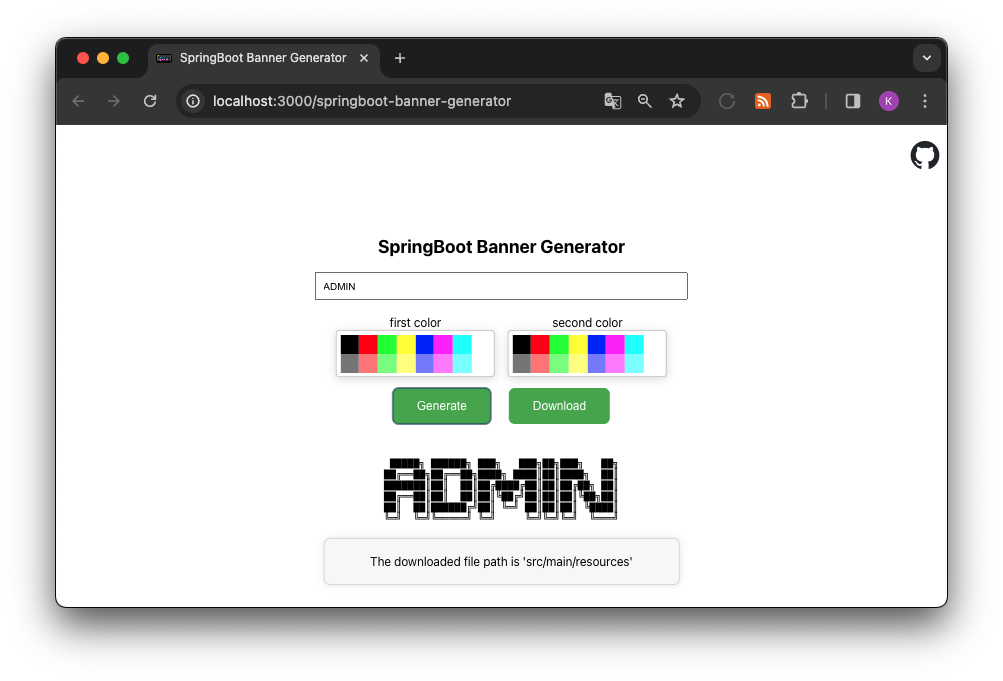
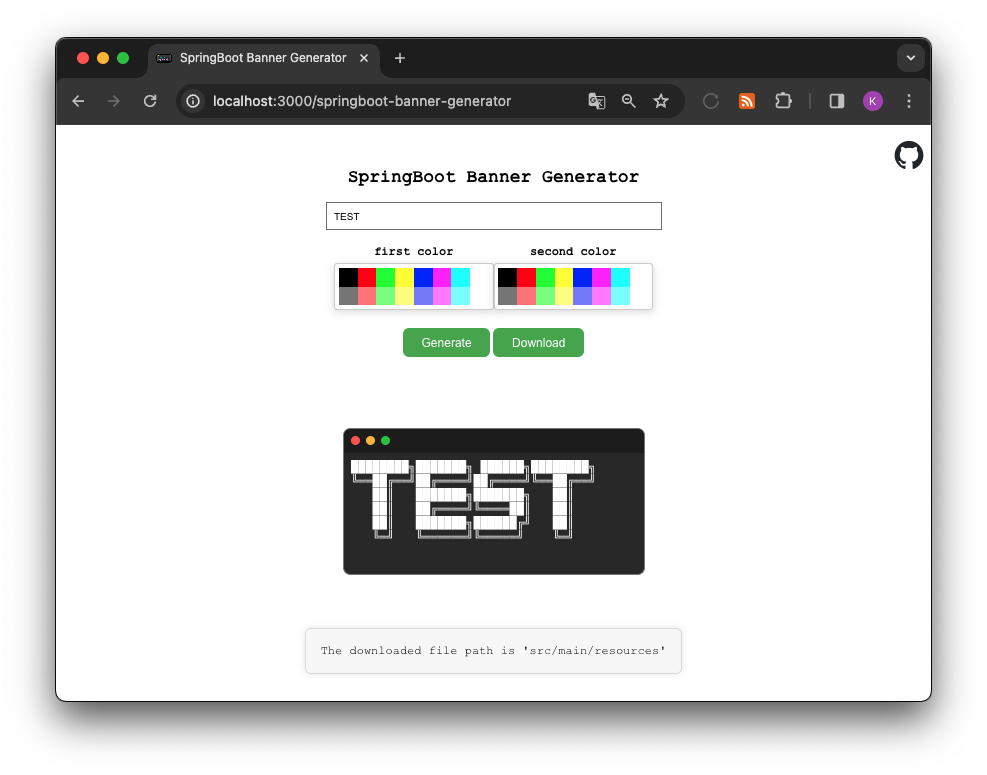
feat: terminal

diff --git a/src/App.js b/src/App.js
@@ -4,6 +4,7 @@ import { GithubPicker } from 'react-color';
 import './App.css';
 
 import Header from './Header';
+import Terminal from "./Terminal";
 
 const StringConverter =  require('./core/StringConverter');
 const ColorConverter =  require('./core/ColorConverter');
@@ -18,7 +19,7 @@ const App = () => {
 
     const handleBannerTextChange = (e) => {
 
-        const regex = /^[a-zA-Z\s]*$/; // 수정된 정규식
+        const regex = /^[a-zA-Z\s]*$/;
         let inputValue = e.target.value;
 
         if (regex.test(inputValue) || inputValue === '') {
@@ -79,47 +80,51 @@ const App = () => {
     return (
         <div>
             <Header />
-            <div className="container">
+            <div className="full-container">
+                <div className="container">
 
-                <div className="title">SpringBoot Banner Generator</div>
-                <div className="vertical-input">
-                    <input
-                        type="text"
-                        id="bannerText"
-                        value={bannerText}
-                        onChange={handleBannerTextChange}
-                        placeholder="Input Only English Text"
-                        style={{ width: '100%', padding: '10px' }}
-                    />
-                </div>
-                <div className="horizontal-input-container">
-                    <div className="centered">
-                        <label className="centered-label">first color</label>
-                        <GithubPicker color={color1} onChangeComplete={(color) => handleColor1Change(color)} colors={ColorConverter.allowedColors} triangle={"hide"}/>
+                    <div className="title">SpringBoot Banner Generator</div>
+                    <div className="vertical-input">
+                        <input
+                            type="text"
+                            id="bannerText"
+                            value={bannerText}
+                            onChange={handleBannerTextChange}
+                            placeholder="Input Only English Text"
+                            style={{ width: '100%', padding: '10px' }}
+                        />
+                    </div>
+                    <div className="horizontal-input-container">
+                        <div className="centered">
+                            <label className="centered-label">first color</label>
+                            <div style={{height:'5px'}}></div>
+                            <GithubPicker color={color1} onChangeComplete={(color) => handleColor1Change(color)} colors={ColorConverter.allowedColors} triangle={"hide"}/>
+                        </div>
 
+                        <div className="centered">
+                            <label className="centered-label">second color</label>
+                            <div style={{height:'5px'}}></div>
+                            <GithubPicker color={color2} onChangeComplete={(color) => handleColor2Change(color)} colors={ColorConverter.allowedColors} triangle={"hide"} />
+                        </div>
                     </div>
-                    <div className="centered">
-                        <label className="centered-label">second color</label>
-                        <GithubPicker color={color2} onChangeComplete={(color) => handleColor2Change(color)} colors={ColorConverter.allowedColors} triangle={"hide"} />
+                    <div className="button-container">
+                        <button className="generate-button" onClick={handleGenerateOutput}>
+                            Generate
+                        </button>
+                        <button className="download-button" onClick={handleDownload} disabled={!fileText.trim()}>
+                            Download
+                        </button>
                     </div>
-                </div>
-                <div className="centered">
-                    <button className="generate-button" onClick={handleGenerateOutput}>
-                        Generate
-                    </button>
-                    <span style={{ margin: '0 10px' }}></span>
-                    <button className="download-button" onClick={handleDownload} disabled={!fileText.trim()}>
-                        Download
-                    </button>
-                </div>
-                <div>
-                    <pre>{outputText}</pre>
-                </div>
-                <div className="description" hidden={!fileText.trim()}>
-                    The downloaded file path is
-                    'src/main/resources'
+
                 </div>
             </div>
+            <div className="terminal-container">
+                {outputText !== '' && <Terminal outputText={outputText} />}
+            </div>
+            {fileText !=='' && <div className="description" >
+                The downloaded file path is
+                'src/main/resources'
+            </div>}
         </div>
     );
 };

diff --git a/src/App.css b/src/App.css
@@ -6,22 +6,19 @@ body {
   height: 100vh;
   margin: 0;
 }
-
+.full-container {
+  display: flex;
+  width: auto;
+  justify-content: center;
+}
 .container {
   text-align: center;
-  width: 300px;
   align-items: center;
   justify-content: center;
   flex-direction: column;
+  max-width: 550px;
 }
-.container {
 
-  position: absolute;
-  top: 20%;
-  left: 50%;
-  transform: translateX(-50%);
-  width: 40%;
-}
 
 .vertical-input {
   margin-bottom: 10px;
@@ -32,14 +29,17 @@ body {
 
 .horizontal-input-container {
   display: flex;
-  justify-content: space-evenly;
+  justify-content: space-around;
 }
-
+.button-container {
+  padding-top: 20px;
+  display: flex;
+  justify-content: center;
+}
 .centered {
   margin-top: 10px;
-  text-align: center;
+  align-items: center;
 }
-
 /* 타이틀 스타일 */
 .title {
   font-size: 24px;
@@ -50,6 +50,7 @@ body {
 
 .centered-label {
   margin-bottom: 10px;
+  font-weight: bold;
 }
 
 button {
@@ -61,7 +62,10 @@ pre {
   justify-content: center;
 }
 
+
 .description {
+  display: flex;
+  justify-content: center;
   background-color: #f8f8f8;
   border: 1px solid #ddd;
   border-radius: 8px;
@@ -77,7 +81,7 @@ pre {
   /* Green */
   border: none;
   color: white;
-  padding: 15px 32px;
+  padding: 10px 25px;
   text-align: center;
   text-decoration: none;
   display: inline-block;
@@ -98,4 +102,81 @@ pre {
   background-color: #cccccc;
   color: #666666;
   cursor: not-allowed;
+}
+
+
+
+body {
+  margin: 0;
+  padding: 0;
+  font-family: 'Courier New', Courier, monospace;
+}
+
+.terminal-container {
+  margin-top: 40px;
+  display: flex;
+  justify-content: center;
+}
+.terminal {
+  min-width: 400px;
+
+  padding-bottom: 30px;
+  background-color: #2d2d2d;
+  border: 2px solid #808080;
+  border-radius: 10px;
+  overflow: hidden;
+  margin: 50px auto;
+}
+
+.header {
+  background-color: #1e1e1e;
+  padding: 10px;
+  display: flex;
+  justify-content: space-between;
+  align-items: center;
+}
+
+.buttons {
+  display: flex;
+}
+
+.button {
+  width: 12px;
+  height: 12px;
+  border-radius: 50%;
+  margin-right: 8px;
+}
+
+.button.close {
+  background-color: #ff5f56;
+}
+
+.button.minimize {
+  background-color: #ffbd2e;
+}
+
+.button.maximize {
+  background-color: #27c93f;
+}
+
+.content {
+  padding: 10px;
+  color: #ffffff;
+  height: calc(100% - 40px);
+  text-align: left; /* 왼쪽 정렬 스타일 추가 */
+  white-space: pre-wrap; /* 공백 및 줄 바꿈 유지 */
+}
+
+/* 스크롤바 스타일링 */
+.content::-webkit-scrollbar {
+  width: 8px;
+}
+
+.content::-webkit-scrollbar-thumb {
+  background-color: #4d4d4d;
+  border-radius: 4px;
+}
+
+.content::-webkit-scrollbar-track {
+  background-color: #333333;
 }

diff --git a/src/Terminal.jsx b/src/Terminal.jsx
@@ -1,0 +1,35 @@
+import React from 'react';
+
+const Terminal = ({outputText}) => {
+    const processNewlines = (text) => {
+
+        if(text === '') return ""
+        text.split('\n').map((line, index) => (
+           console.log(line)
+        ));
+
+        return text.split('\n').map((line, index) => (
+            <React.Fragment key={index}>
+                {index > 0 && <br />}
+                {line}
+            </React.Fragment>
+        ));
+    };
+
+    return (
+        <div className="terminal">
+            <div className="header">
+                <div className="buttons">
+                    <div className="button close"></div>
+                    <div className="button minimize"></div>
+                    <div className="button maximize"></div>
+                </div>
+            </div>
+            <div className="content">
+                {processNewlines(outputText)}
+            </div>
+        </div>
+    );
+};
+
+export default Terminal;
